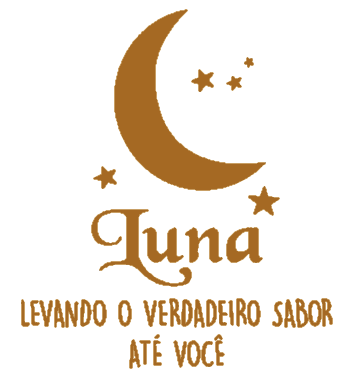
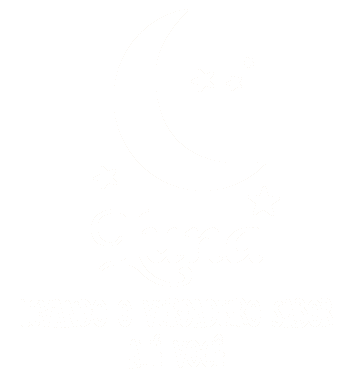
v1.3

diff --git a/assets/css/style.css b/assets/css/style.css
@@ -439,7 +439,7 @@ h1, h2, h3, h4, h5, h6 {
 
 /*--------------------------------------------------------------
 # Hero Section
---------------------------------------------------------------*/
+--------------------------------------------------------------*/  
 #hero {
   width: 100%;
   height: 100vh;
@@ -451,7 +451,7 @@ h1, h2, h3, h4, h5, h6 {
 
 #hero:before {
   content: "";
-  background: rgba(0, 0, 0, 0.5); /* Cor de fundo primeira pag */
+  background: rgba(0, 0, 0, 0.233); /* Cor de fundo primeira pag */
   position: absolute;
   bottom: 0;
   top: 0;

diff --git a/index.html b/index.html
@@ -94,7 +94,7 @@
     <div class="container position-relative text-center text-lg-start" data-aos="zoom-in" data-aos-delay="100">
       <div class="row">
         <div class="col-lg-8">
-          <h1><img src="assets/img/luna.png">
+          <h1><img src="assets/img/luna.png" width="50%" height="50%">
             </h1>
           <h2><strong></strong></h2>
 
